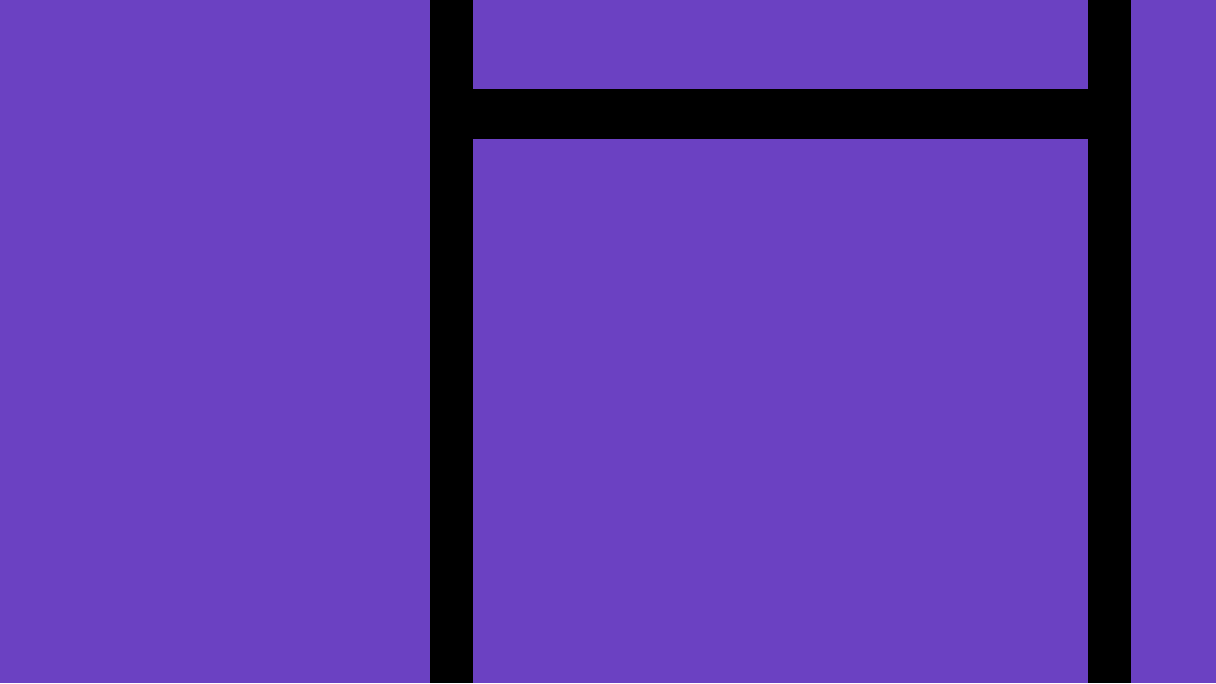
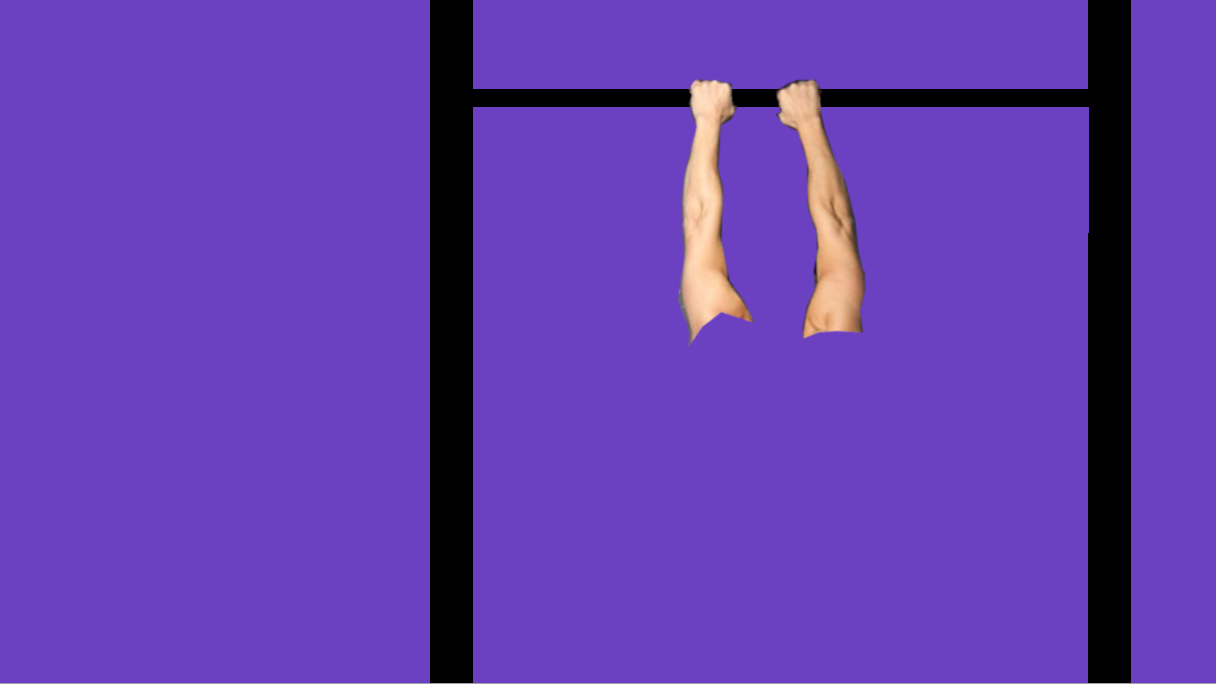
added basic clothe mechanic

Changed region(s): [[0.375, 0.0921, 0.9062, 0.4912]]

diff --git a/src/pl/dobberstudio/game/locations/Clother.java b/src/pl/dobberstudio/game/locations/Clother.java
@@ -2,6 +2,7 @@ package pl.dobberstudio.game.locations;
 
 import pl.dobberstudio.engine.GameContainer;
 import pl.dobberstudio.engine.Renderer;
+import pl.dobberstudio.game.Character;
 import pl.dobberstudio.game.CurrentLocation;
 import pl.dobberstudio.game.GameManager;
 
@@ -9,112 +10,107 @@ public class Clother extends Location
 {
     ToadProduct[] clothes;
     MapLocation exit;
-    public Clother(GameManager gm, String path)
+    public Clother(GameManager gm, String path, Character character)
     {
         super(gm, path);
         exit = new MapLocation(gm, "exit.png", 19, 608);
-        exit.setOnClick(new Runnable() {
-            @Override
-            public void run()
-            {
-                gm.setLocation(CurrentLocation.CITY);
-            }
-        });
+        exit.setOnClick(() -> gm.setLocation(CurrentLocation.CITY));
         clothes = new ToadProduct[12];
+
         clothes[0] = new ToadProduct(gm, "clother/adidas_hat.png", 250, 2, 1);
-        clothes[0].setOnClick(new Runnable() {
-            @Override
-            public void run()
-            {
-                System.out.println("adidas_hat");
+        clothes[0].setValue(1);
+        clothes[0].setOnClick(() -> {
+            if((character.getMoney() >= clothes[0].getPrice()) && (character.getEquipment().getHeadValue() < clothes[0].getValue())) {
+                character.spendMoney(clothes[0].getPrice());
+                character.getEquipment().setHead(clothes[0]);
             }
         });
         clothes[1] = new ToadProduct(gm, "clother/kasket.png", 700, 2, 1);
-        clothes[1].setOnClick(new Runnable() {
-            @Override
-            public void run()
-            {
-                System.out.println("kasket");
+        clothes[1].setValue(2);
+        clothes[1].setOnClick(() -> {
+            if((character.getMoney() >= clothes[1].getPrice()) && (character.getEquipment().getHeadValue() < clothes[1].getValue())) {
+                character.spendMoney(clothes[1].getPrice());
+                character.getEquipment().setHead(clothes[1]);
             }
         });
         clothes[2] = new ToadProduct(gm, "clother/slash.png", 970, 2, 1);
-        clothes[2].setOnClick(new Runnable() {
-            @Override
-            public void run()
-            {
-                System.out.println("slash");
+        clothes[2].setValue(3);
+        clothes[2].setOnClick(() -> {
+            if((character.getMoney() >= clothes[2].getPrice()) && (character.getEquipment().getHeadValue() < clothes[2].getValue())) {
+                character.spendMoney(clothes[2].getPrice());
+                character.getEquipment().setHead(clothes[2]);
             }
         });
         clothes[3] = new ToadProduct(gm, "clother/wifepuncher.png", 250, 160, 1);
-        clothes[3].setOnClick(new Runnable() {
-            @Override
-            public void run()
-            {
-                System.out.println("wifepuncher");
+        clothes[3].setValue(1);
+        clothes[3].setOnClick(() -> {
+            if((character.getMoney() >= clothes[3].getPrice()) && (character.getEquipment().getBodyValue() < clothes[3].getValue())) {
+                character.spendMoney(clothes[3].getPrice());
+                character.getEquipment().setBody(clothes[3]);
             }
         });
         clothes[4] = new ToadProduct(gm, "clother/thrasher.png", 700, 160, 1);
-        clothes[4].setOnClick(new Runnable() {
-            @Override
-            public void run()
-            {
-                System.out.println("thrasher");
+        clothes[4].setValue(2);
+        clothes[4].setOnClick(() -> {
+            if((character.getMoney() >= clothes[4].getPrice()) && (character.getEquipment().getBodyValue() < clothes[4].getValue())) {
+                character.spendMoney(clothes[4].getPrice());
+                character.getEquipment().setBody(clothes[4]);
             }
         });
         clothes[5] = new ToadProduct(gm, "clother/jacket.png", 970, 160, 1);
-        clothes[5].setOnClick(new Runnable() {
-            @Override
-            public void run()
-            {
-                System.out.println("jacket");
+        clothes[5].setValue(3);
+        clothes[5].setOnClick(() -> {
+            if((character.getMoney() >= clothes[5].getPrice()) && (character.getEquipment().getBodyValue() < clothes[5].getValue())) {
+                character.spendMoney(clothes[5].getPrice());
+                character.getEquipment().setBody(clothes[5]);
             }
         });
         clothes[6] = new ToadProduct(gm, "clother/pants.png", 250, 330, 1);
-        clothes[6].setOnClick(new Runnable() {
-            @Override
-            public void run()
-            {
-                System.out.println("pants");
+        clothes[6].setValue(1);
+        clothes[6].setOnClick(() -> {
+            if((character.getMoney() >= clothes[6].getPrice()) && (character.getEquipment().getLegsValue() < clothes[6].getValue())) {
+                character.spendMoney(clothes[6].getPrice());
+                character.getEquipment().setLegs(clothes[6]);
             }
         });
         clothes[7] = new ToadProduct(gm, "clother/builder_pants.png", 700, 330, 1);
-        clothes[7].setOnClick(new Runnable() {
-            @Override
-            public void run()
-            {
-                System.out.println("builder_pants");
+        clothes[7].setValue(2);
+        clothes[7].setOnClick(() -> {
+            if((character.getMoney() >= clothes[7].getPrice()) && (character.getEquipment().getLegsValue() < clothes[7].getValue())) {
+                character.spendMoney(clothes[7].getPrice());
+                character.getEquipment().setLegs(clothes[7]);
             }
         });
         clothes[8] = new ToadProduct(gm, "clother/jeans.png", 970, 330, 1);
-        clothes[8].setOnClick(new Runnable() {
-            @Override
-            public void run()
-            {
-                System.out.println("jeans");
+        clothes[8].setValue(3);
+        clothes[8].setOnClick(() -> {
+            if((character.getMoney() >= clothes[8].getPrice()) && (character.getEquipment().getLegsValue() < clothes[8].getValue())) {
+                character.spendMoney(clothes[8].getPrice());
+                character.getEquipment().setLegs(clothes[8]);
             }
         });
         clothes[9] = new ToadProduct(gm, "clother/kubota.png", 250, 500, 1);
-        clothes[9].setOnClick(new Runnable() {
-            @Override
-            public void run()
-            {
-                System.out.println("kubota");
+        clothes[9].setValue(1);
+        clothes[9].setOnClick(() -> {
+            if((character.getMoney() >= clothes[9].getPrice()) && (character.getEquipment().getFootsValue() < clothes[9].getValue())) {
+                character.spendMoney(clothes[9].getPrice());
+                character.getEquipment().setFoots(clothes[9]);
             }
         });
         clothes[10] = new ToadProduct(gm, "clother/shoes.png", 700, 500, 1);
-        clothes[10].setOnClick(new Runnable() {
-            @Override
-            public void run()
-            {
-                System.out.println("shoes");
+        clothes[10].setValue(2);
+        clothes[10].setOnClick(() -> {
+            if((character.getMoney() >= clothes[10].getPrice()) && (character.getEquipment().getFootsValue() < clothes[10].getValue())) {
+                character.spendMoney(clothes[10].getPrice());
+                character.getEquipment().setFoots(clothes[10]);
             }
         });
         clothes[11] = new ToadProduct(gm, "clother/boots.png", 970, 500, 1);
-        clothes[11].setOnClick(new Runnable() {
-            @Override
-            public void run()
-            {
-                System.out.println("boots");
+        clothes[11].setValue(3);
+        clothes[11].setOnClick(() -> {
+            if((character.getMoney() >= clothes[11].getPrice()) && (character.getEquipment().getFootsValue() < clothes[11].getValue())) {
+                character.spendMoney(clothes[11].getPrice());
+                character.getEquipment().setFoots(clothes[11]);
             }
         });
     }

diff --git a/src/pl/dobberstudio/game/eq/Equipment.java b/src/pl/dobberstudio/game/eq/Equipment.java
@@ -1,12 +1,18 @@
 package pl.dobberstudio.game.eq;
 
 import pl.dobberstudio.engine.gfx.Font;
+import pl.dobberstudio.game.locations.ToadProduct;
 
 import java.util.Arrays;
 
 public class Equipment {
     private int food[] = new int[Food.values().length];
     private int flowers[] = new int[Flowers.values().length];
+
+    private ToadProduct head;
+    private ToadProduct body;
+    private ToadProduct legs;
+    private ToadProduct foots;
 
     public Equipment() {
     }
@@ -61,6 +67,66 @@ public class Equipment {
             }
             i++;
         }
+    }
+
+    public void setHead(ToadProduct head) {
+        this.head = head;
+    }
+
+    public void setBody(ToadProduct body) {
+        this.body = body;
+    }
+
+    public void setLegs(ToadProduct legs) {
+        this.legs = legs;
+    }
+
+    public void setFoots(ToadProduct foots) {
+        this.foots = foots;
+    }
+
+    public ToadProduct getHead() {
+        return head;
+    }
+
+    public ToadProduct getBody() {
+        return body;
+    }
+
+    public ToadProduct getLegs() {
+        return legs;
+    }
+
+    public ToadProduct getFoots() {
+        return foots;
+    }
+
+    public int getHeadValue() {
+        if(head == null) {
+            return 0;
+        }
+        return head.getValue();
+    }
+
+    public int getBodyValue() {
+        if(body == null) {
+            return 0;
+        }
+        return body.getValue();
+    }
+
+    public int getLegsValue() {
+        if(legs == null) {
+            return 0;
+        }
+        return legs.getValue();
+    }
+
+    public int getFootsValue() {
+        if(foots == null) {
+            return 0;
+        }
+        return foots.getValue();
     }
 
     @Override

diff --git a/src/pl/dobberstudio/game/locations/CharacterPanel.java b/src/pl/dobberstudio/game/locations/CharacterPanel.java
@@ -58,5 +58,18 @@ public class CharacterPanel extends Location
         renderer.drawRect(BAR_X_START, BODY_BAR_Y, width, BAR_HEIGHT, 0xFF00FF00);
 
         renderer.drawImage(exit.getIcon(), (int)exit.x, (int)exit.y);
+
+        if(character.getEquipment().getHeadValue() > 0) {
+            renderer.drawImage(character.getEquipment().getHead().getIcon(), 400, 150);
+        }
+        if(character.getEquipment().getBodyValue() > 0) {
+            renderer.drawImage(character.getEquipment().getBody().getIcon(), 600, 150);
+        }
+        if(character.getEquipment().getLegsValue() > 0) {
+            renderer.drawImage(character.getEquipment().getLegs().getIcon(), 800, 150);
+        }
+        if(character.getEquipment().getFootsValue() > 0) {
+            renderer.drawImage(character.getEquipment().getFoots().getIcon(), 1000, 150);
+        }
     }
 }

diff --git a/src/pl/dobberstudio/game/GameManager.java b/src/pl/dobberstudio/game/GameManager.java
@@ -46,7 +46,7 @@ public class GameManager extends AbstractGame {
         house = new House(this, "house_inside.png", character);
         florist = new Florist(this, "florist_inside.png", character);
         jeweller = new Jeweller(this, "jeweller_inside.png");
-        clother = new Clother(this, "clother_inside.png");
+        clother = new Clother(this, "clother_inside.png", character);
         waifuPanel = new WaifuPanel(this, "waifuPanel.png");
         timer = new Timer(this, "timer_background.png");
         florist = new Florist(this, "florist_inside.png", character);
@@ -110,7 +110,6 @@ public class GameManager extends AbstractGame {
 
     public static void main(String[] args) {
         GameContainer gc = new GameContainer(new GameManager());
-        System.out.println("\n".codePointAt(0));
         gc.start();
     }
 }

diff --git a/src/pl/dobberstudio/game/locations/Gym.java b/src/pl/dobberstudio/game/locations/Gym.java
@@ -32,8 +32,8 @@ public class Gym extends Location {
             }
         });
         boy = new Image("res/pullUpBoy.png");
-        boyX = 560;
-        boyY = 300;
+        boyX = 583;
+        boyY = 60;
         upTime = DEFAULT_UP_TIME;
         this.character = character;
     }
@@ -51,13 +51,13 @@ public class Gym extends Location {
         }
 
 
-        if(boyY > 300) {
-            boyY = 300;
+        if(boyY > 60) {
+            boyY = 60;
         }
 
-        if(boyY < 50) {
+        if(boyY < -118) {
             madePullUp();
-            boyY = 300;
+            boyY = 60;
         }
         exit.isClicked(gc);
     }

diff --git a/src/pl/dobberstudio/game/locations/ToadProduct.java b/src/pl/dobberstudio/game/locations/ToadProduct.java
@@ -7,6 +7,7 @@ import pl.dobberstudio.game.gui.Button;
 public class ToadProduct extends Button
 {
     private Food foodKind;
+    private int value;
 
     private int price;
     public ToadProduct(GameManager gm, String path, double x, double y, int price)
@@ -25,5 +26,13 @@ public class ToadProduct extends Button
 
     public void setFoodKind(Food foodKind) {
         this.foodKind = foodKind;
+    }
+
+    public int getValue() {
+        return value;
+    }
+
+    public void setValue(int value) {
+        this.value = value;
     }
 }

diff --git a/src/pl/dobberstudio/game/Character.java b/src/pl/dobberstudio/game/Character.java
@@ -130,6 +130,10 @@ public class Character {
         return money;
     }
 
+    public Equipment getEquipment() {
+        return equipment;
+    }
+
     public static int getMaxLook() {
         return MAX_LOOK;
     }
